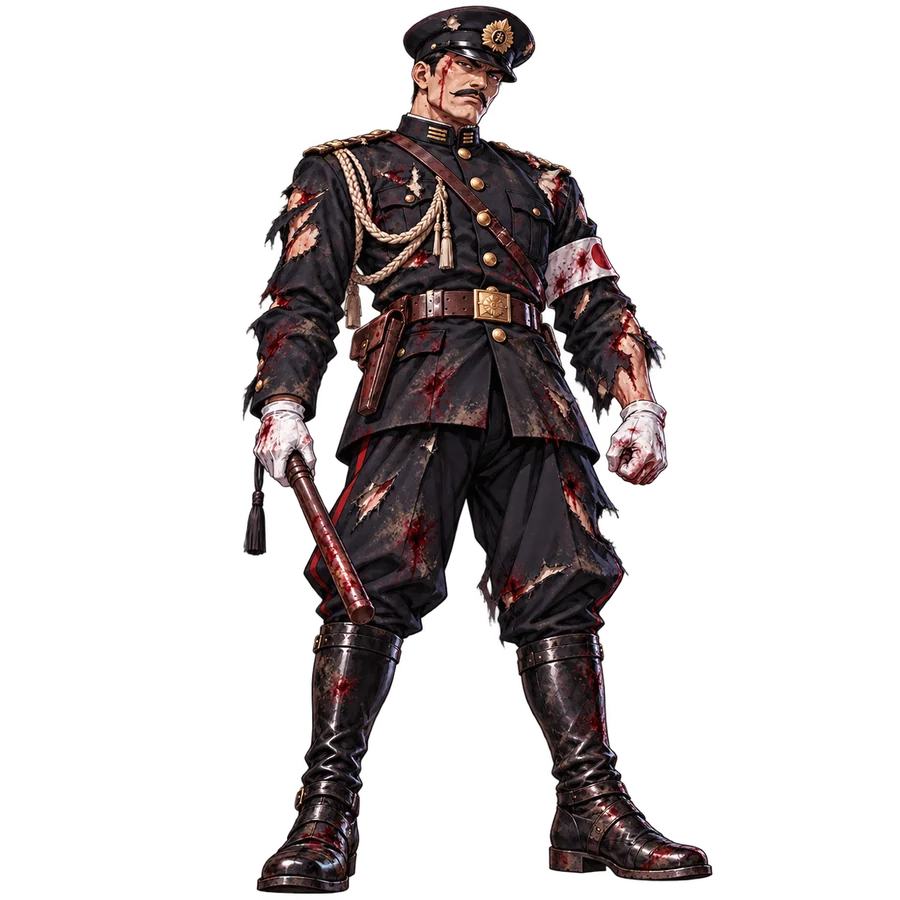
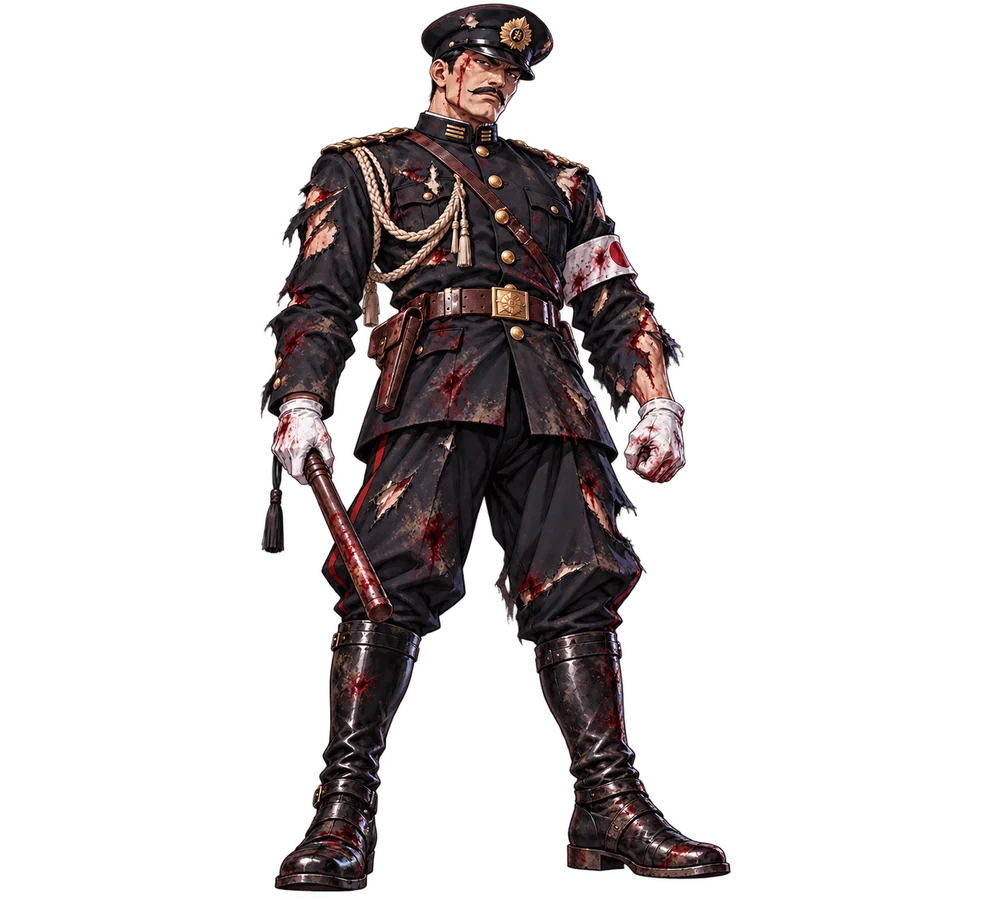
보스전 시연: 순사 그림 3장 추가 (곤봉 휘두르기·호루라기·쓰러짐) — 공격할 때 동작 그림, 격파 후 쓰러진 모습을 보여 준 뒤 결과 창, 7장 모두 발끝 기준으로 같은 틀에 맞춤
Claude-Session: https://claude.ai/code/session_01Th2vt2MJhJ2YUiF4VdhBdm

Changed region(s): [[0.2489, 0.0, 0.8089, 0.9956]]

diff --git a/review-game-firebase/boss-demo.html b/review-game-firebase/boss-demo.html
@@ -51,13 +51,15 @@ cv.width = W; cv.height = H;
 const off = document.createElement('canvas');   // 보스를 먼저 그려 두고 번쩍임·분노 색을 입히는 캔버스
 off.width = 700; off.height = 780;
 const octx = off.getContext('2d');
-// 한국사 보스 그림: 배경이 투명한 900×900 네 장(평소·맞음·분노·크게 다침). 네 장 모두 발끝 위치가 같다.
-const SPRITE_SIZE = 720, SPRITE_FEET = 715;   // 원본 1254px 기준 발끝이 약 1245px
+// 한국사 보스 그림 7장: 평소·맞음·분노·크게 다침·쓰러짐·호루라기·곤봉 휘두르기.
+// 모두 배경이 투명한 1005×900 틀에 발끝(가운데 아래)이 같은 자리에 오도록 맞춰 두었다.
+const SPRITE_W = 804, SPRITE_H = 720;
+const SPRITE_FEET_X = 402, SPRITE_FEET_Y = 714;   // 틀 안에서 발끝 위치
 const sprOff = document.createElement('canvas');
-sprOff.width = SPRITE_SIZE; sprOff.height = SPRITE_SIZE;
+sprOff.width = SPRITE_W; sprOff.height = SPRITE_H;
 const sctx = sprOff.getContext('2d');
 const POLICE = {};
-['idle', 'hit', 'rage', 'hurt'].forEach(k => { const im = new Image(); im.src = 'assets/boss/police_' + k + '.webp'; POLICE[k] = im; });
+['idle', 'hit', 'rage', 'hurt', 'down', 'whistle', 'swing'].forEach(k => { const im = new Image(); im.src = 'assets/boss/police_' + k + '.webp'; POLICE[k] = im; });
 function spritesReady(){ return Object.values(POLICE).every(im => im.complete && im.naturalWidth > 0); }
 const FONT = '"Malgun Gothic","Pretendard",sans-serif';
 const OUT = '#0b0b12';
@@ -521,23 +523,30 @@ function swingAngle(p, base){
   return lerp(-0.5, base, easeOut((p - 0.5) / 0.5));
 }
 
-// 한국사 보스 그림 고르기: 치명타에 맞은 직후·쓰러질 때 → 맞음, 체력 25% 이하 → 크게 다침, 분노 → 분노, 그 외 → 평소
+// 한국사 보스 그림 고르기 (위에서부터 우선)
+//   쓰러짐: 격파 연출 후반·승리 화면 / 맞음: 격파 폭발 중·치명타 직후·기절 / 공격 동작: 호루라기·곤봉 휘두르기
+//   크게 다침: 체력 25% 이하 / 분노: 50% 이하·실패 화면 / 그 외: 평소
 function policePose(){
+  if(S.phase === 'victory' || (S.phase === 'dying' && S.dyingT >= 2.2)) return 'down';
   if(S.phase === 'lose') return 'rage';
   if(S.phase === 'dying' || S.hitPose > 0 || bossStunned()) return 'hit';
+  if(S.poseUntil > S.clock && S.poseKind) return S.poseKind;
   if(S.hp <= S.max * 0.25) return 'hurt';
-  if(S.rage || S.attack > 0) return 'rage';
+  if(S.rage) return 'rage';
   return 'idle';
 }
+// 공격 동작 그림을 잠깐 보여 준다
+function showPose(kind, ms){ S.poseKind = kind; S.poseUntil = S.clock + ms; }
+function useSprite(){ return themeKey === 'korea' && spritesReady(); }
 
 // 보스를 따로 그린 뒤 번쩍임·분노 색을 입히고, 본 화면에 붙일 캔버스와 발끝 기준점을 돌려준다
 function renderBoss(){
-  const useSprite = themeKey === 'korea' && spritesReady();
-  const g = useSprite ? sctx : octx, cvs = useSprite ? sprOff : off;
+  const sprite = useSprite();
+  const g = sprite ? sctx : octx, cvs = sprite ? sprOff : off;
   g.setTransform(1, 0, 0, 1, 0, 0);
   g.clearRect(0, 0, cvs.width, cvs.height);
-  if(useSprite){
-    g.drawImage(POLICE[policePose()], 0, 0, SPRITE_SIZE, SPRITE_SIZE);
+  if(sprite){
+    g.drawImage(POLICE[policePose()], 0, 0, SPRITE_W, SPRITE_H);
   } else {
     // 그림 파일을 아직 못 불러왔거나 세계사 보스일 때는 코드로 그린 캐릭터
     const p = { t: S.clock / 1000, rage: S.rage, attack: S.attack };
@@ -545,12 +554,12 @@ function renderBoss(){
   }
   // 맞은 순간 하얗게 번쩍, 분노 땐 붉은 기운, 쓰러질 땐 점점 하얗게
   let white = S.bossFlash;
-  if(S.phase === 'dying') white = Math.max(white, 0.25 + 0.35 * Math.abs(Math.sin(S.clock / 60)));
+  if(S.phase === 'dying' && S.dyingT < 2.2) white = Math.max(white, 0.25 + 0.35 * Math.abs(Math.sin(S.clock / 60)));
   g.globalCompositeOperation = 'source-atop';
-  if(S.rage){ g.fillStyle = `rgba(255,30,20,${0.1 + 0.06 * Math.sin(S.clock / 120)})`; g.fillRect(0, 0, cvs.width, cvs.height); }
+  if(S.rage && S.phase === 'fight'){ g.fillStyle = `rgba(255,30,20,${0.1 + 0.06 * Math.sin(S.clock / 120)})`; g.fillRect(0, 0, cvs.width, cvs.height); }
   if(white > 0){ g.fillStyle = `rgba(255,255,255,${clamp(white, 0, 1) * 0.85})`; g.fillRect(0, 0, cvs.width, cvs.height); }
   g.globalCompositeOperation = 'source-over';
-  return useSprite ? { cvs, ax: SPRITE_SIZE / 2, ay: SPRITE_FEET } : { cvs, ax: 350, ay: 740 };
+  return sprite ? { cvs, ax: SPRITE_FEET_X, ay: SPRITE_FEET_Y } : { cvs, ax: 350, ay: 740 };
 }
 
 // ── 게임 상태 ─────────────────────────────────────────
@@ -568,7 +577,7 @@ function reset(){
     clock: 0, phase: 'ready', introT: 0, landed: false,
     hp: RAID.hp, ghost: RAID.hp, max: RAID.hp,
     rage: false, enrage: false, counterAt: 0, attack: 0, hitPose: 0,
-    attackAt: 0, regenAcc: 0, regenShowAt: 0, healFlash: 0,
+    attackAt: 0, poseKind: '', poseUntil: 0, fallen: false, regenAcc: 0, regenShowAt: 0, healFlash: 0,
     cast: null, healsDone: [], nextHealAt: 0, bossStunUntil: 0,
     students: NAMES.map((name, i) => Object.assign({
       name, i, dmg: 0, correct: 0, streak: 0, next: 0, flash: 0, flashColor: '', stunUntil: 0, wrongT: 0,
@@ -601,7 +610,7 @@ function answer(st){
   if(Math.random() > 0.82){      // 오답: 공격하지 못하고, 보스가 곧바로 그 학생을 반격한다
     st.streak = 0; S.wrong++;
     st.flash = 1; st.flashColor = '#e0483c'; st.wrongT = 1;
-    if(!bossStunned()) bossStrike(st, 0.35, T.wrongText);
+    if(!bossStunned()){ bossStrike(st, 0.35, T.wrongText); if(!(S.poseUntil > S.clock)) showPose('swing', 450); }
     return;
   }
   st.streak++; st.correct++; S.correct++;
@@ -713,6 +722,7 @@ function basicAttack(){
   S.timers.push({ at: S.clock + RAID.telegraphMs, fn: () => {
     if(S.phase !== 'fight' || bossStunned()) return;
     S.attack = 0.55;
+    showPose('swing', 650);   // 곤봉 휘두르기
     for(const st of targets) bossStrike(st, 0.4, T.attackName);
   }});
   S.attackAt = S.clock + RAID.attackGapMs[lvl];
@@ -740,6 +750,7 @@ function enterEnrage(){
 function counterAttack(){
   const T = THEMES[themeKey];
   S.attack = 1;
+  showPose('whistle', 1300);   // 호루라기 불기
   sfx('counter');
   S.timers.push({ at: S.clock + 380, fn: () => {
     if(S.phase !== 'fight' || bossStunned()) return;
@@ -884,11 +895,18 @@ function update(dt){
       sfx('explode');
     }
     if(S.dyingT >= 2.2){
-      const k = clamp((S.dyingT - 2.2) / 0.8, 0, 1);
-      S.bossRot = (themeKey === 'korea' ? -1 : 1) * 0.45 * easeOut(k);
-      S.bossY = 80 * k; S.bossAlpha = 1 - k;
+      if(useSprite()){
+        if(!S.fallen){
+          S.fallen = true; S.shake = 36; S.squash = 0.8; sfx('drop');
+          for(let i = 0; i < 60; i++) S.parts.push({ x: BOSS_X + rand(-380, 380), y: BOSS_FEET - 10, vx: rand(-520, 520), vy: rand(-360, -60), life: rand(0.5, 1.1), t: 0, size: rand(6, 16), color: '#6b5a50', g: 700, kind: 'dot' });
+        }
+      } else {
+        const k = clamp((S.dyingT - 2.2) / 0.8, 0, 1);
+        S.bossRot = 0.45 * easeOut(k);
+        S.bossY = 80 * k; S.bossAlpha = 1 - k;
+      }
     }
-    if(S.dyingT >= 3.1){
+    if(S.dyingT >= (useSprite() ? 4.4 : 3.1)){
       S.phase = 'victory';
       updateButtons();
       sfx('win');
@@ -988,10 +1006,10 @@ function draw(){
 }
 
 function drawBossLayer(){
-  if(S.phase === 'victory') return;
+  if(S.phase === 'victory' && !useSprite()) return;
   const t = S.clock / 1000;
-  // 분노 오라
-  if(S.rage){
+  // 분노 오라 (싸우는 중·실패 화면에서만)
+  if(S.rage && (S.phase === 'fight' || S.phase === 'lose')){
     const aura = ctx.createRadialGradient(BOSS_X, BOSS_FEET - 330, 60, BOSS_X, BOSS_FEET - 330, 420 + Math.sin(t * 6) * 20);
     aura.addColorStop(0, S.enrage ? 'rgba(255,20,20,.5)' : 'rgba(255,60,30,.35)'); aura.addColorStop(1, 'rgba(255,60,30,0)');
     ctx.fillStyle = aura; ctx.fillRect(BOSS_X - 520, BOSS_FEET - 820, 1040, 900);
